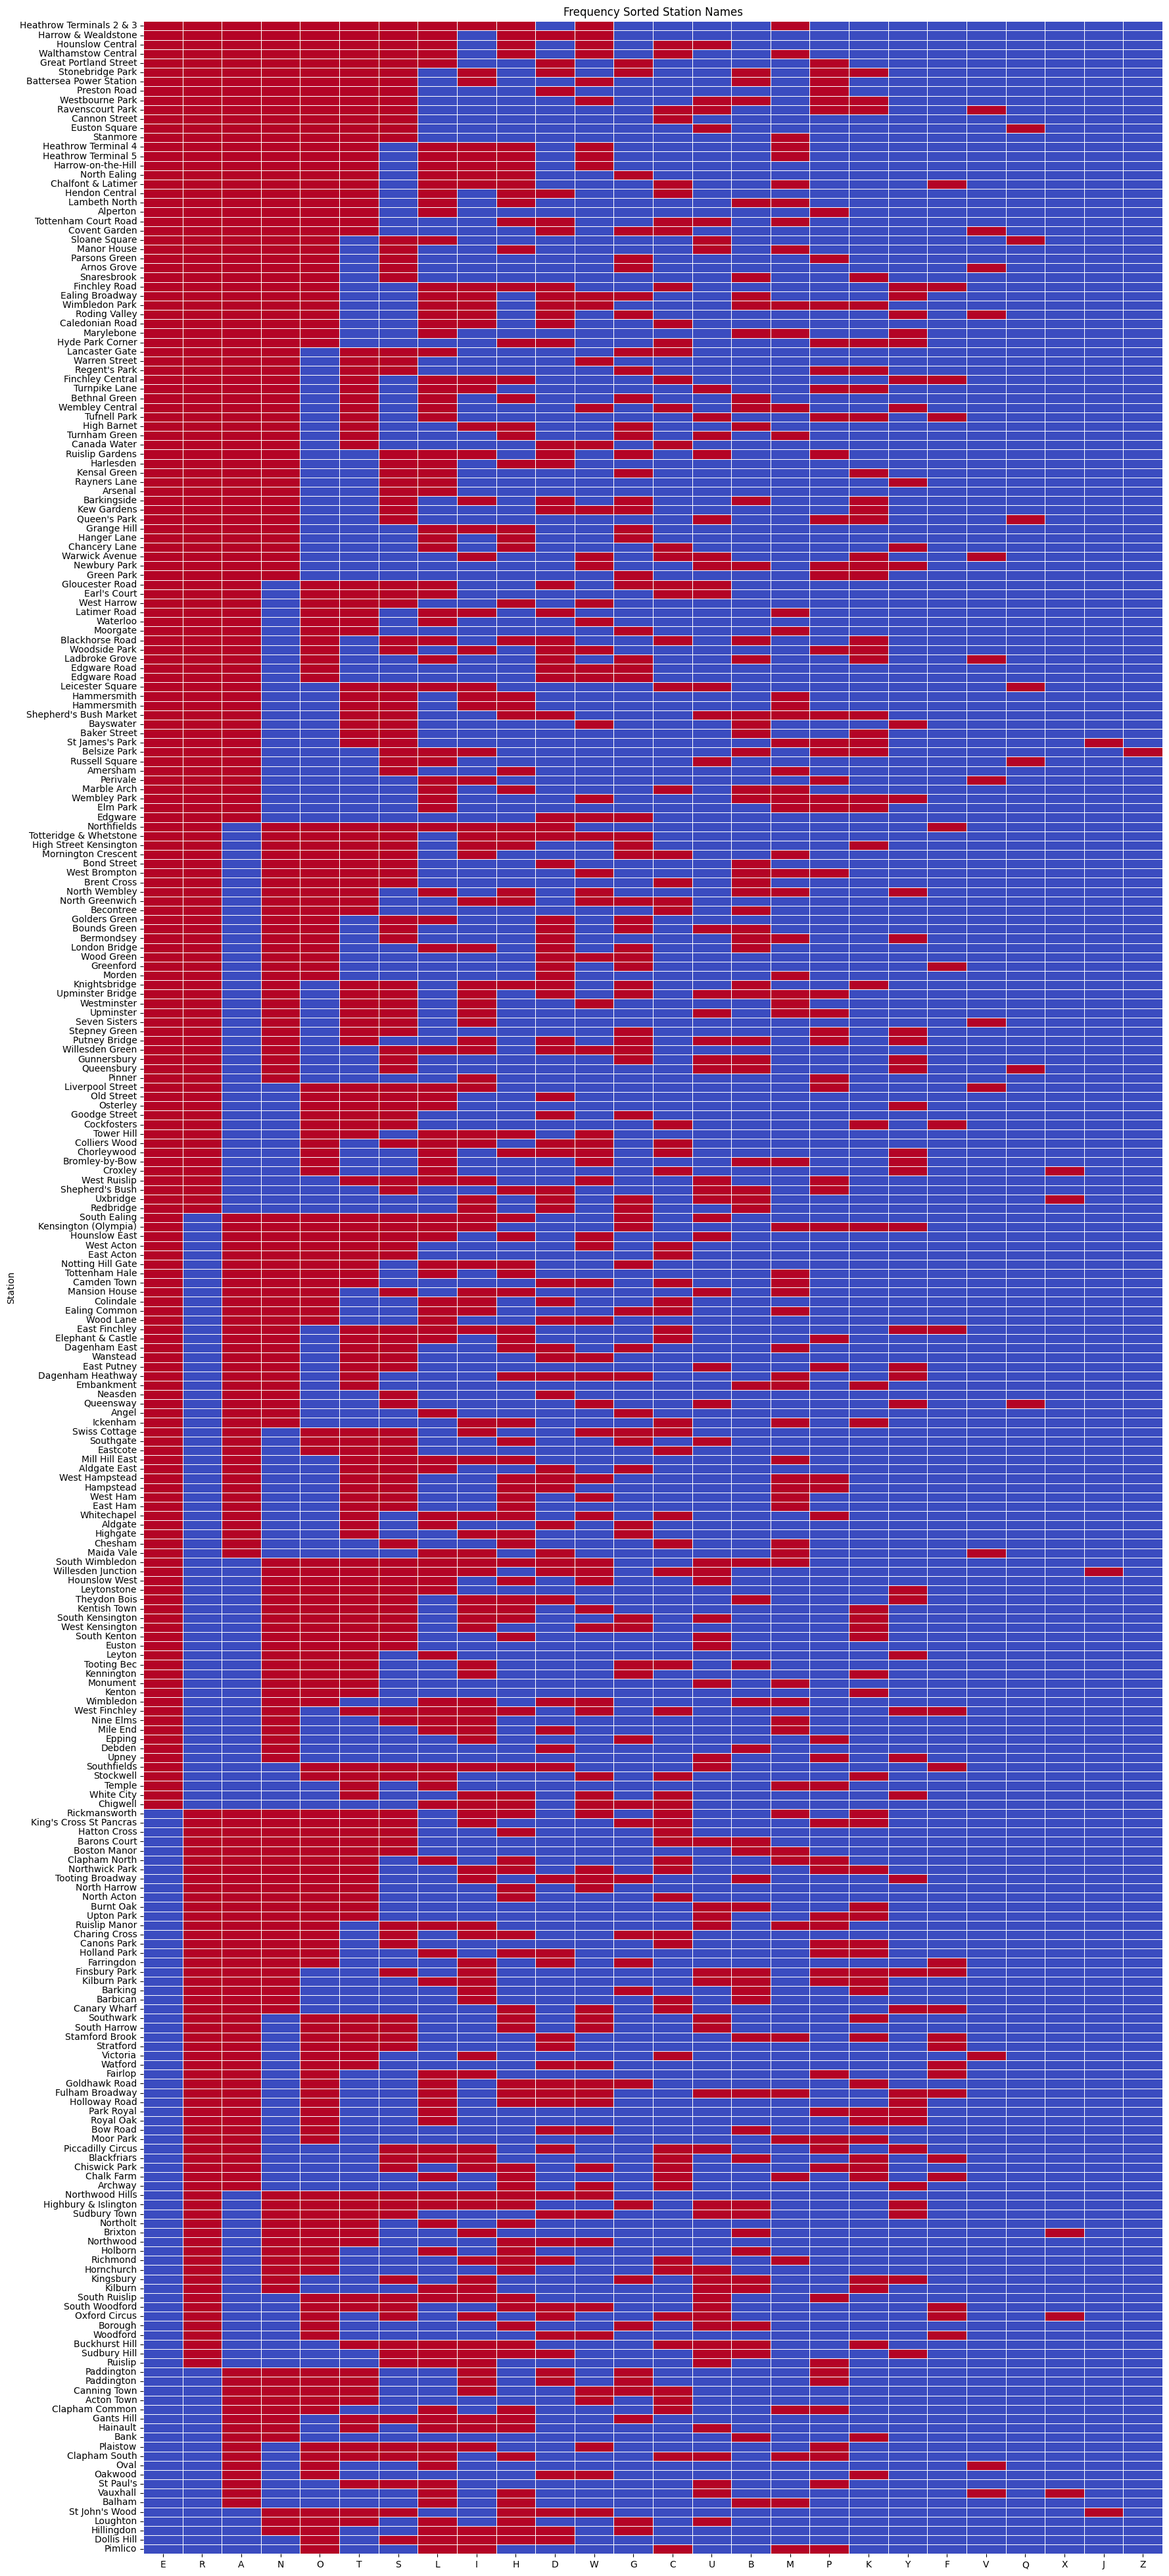
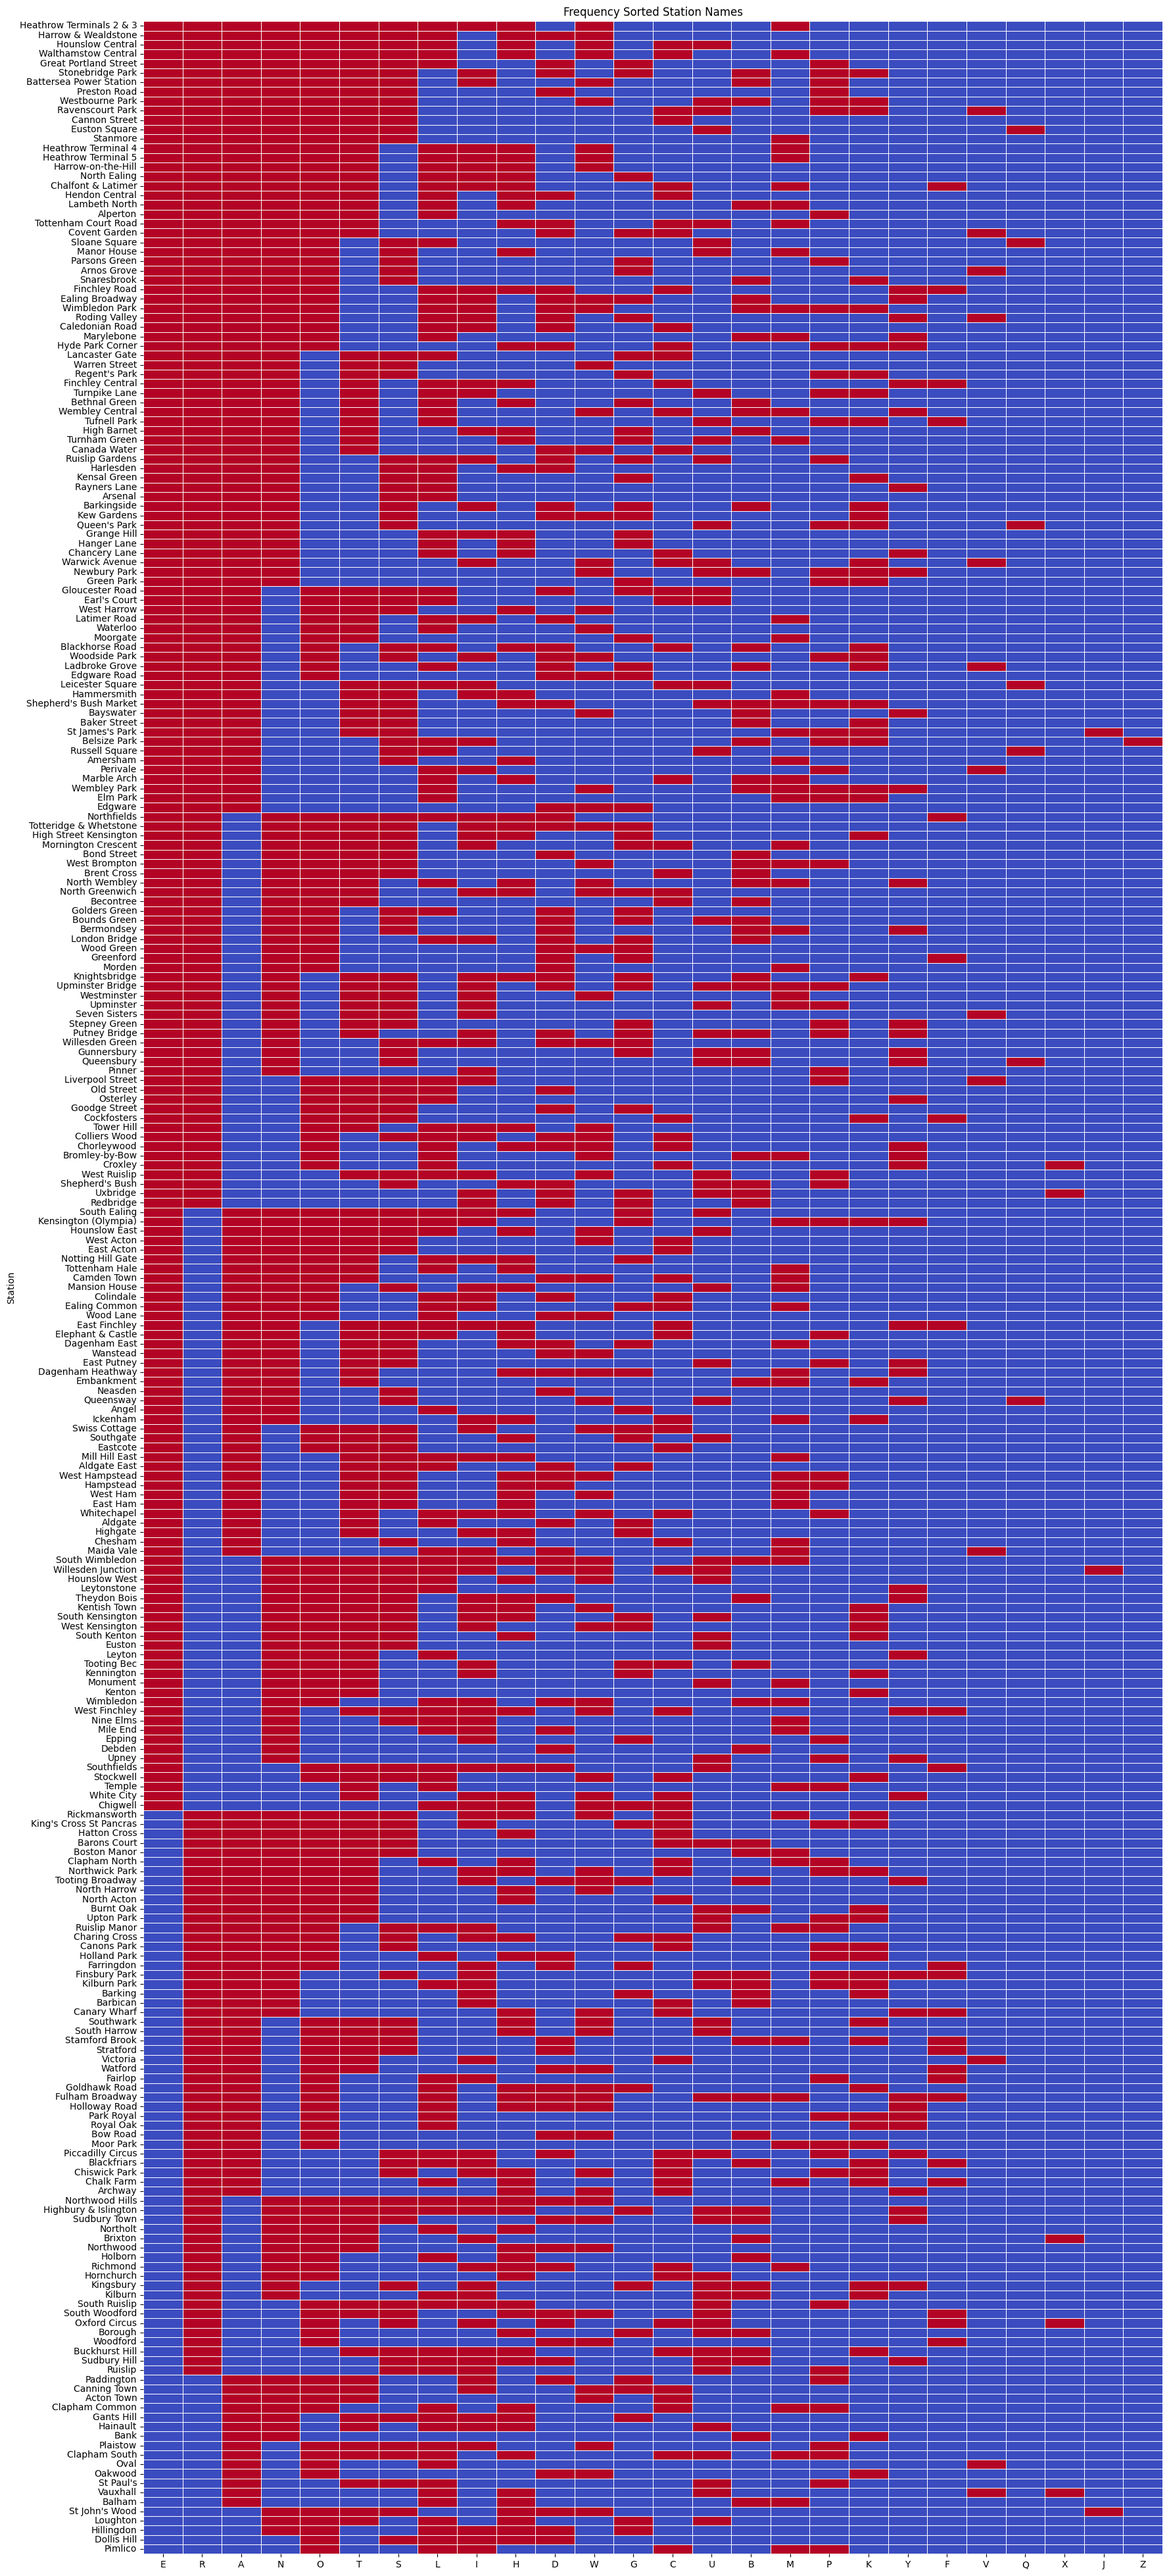
updated order of reversed heatmap

Changed region(s): [[0.0309, 0.0312, 1.0, 0.6542], [0.0619, 0.6854, 0.9899, 0.9658]]

diff --git a/generate_heatmaps.py b/generate_heatmaps.py
@@ -30,73 +30,6 @@ def generate_heatmap(matrix, title, output_path):
     plt.savefig(output_path, bbox_inches='tight')
     plt.close()
 
-def find_unique_filter_for_station(args):
-    idx, name, binary, station_binaries, sorted_letters = args
-    letter_set = set(string.ascii_uppercase)
-    
-    all_other_binaries = station_binaries[:idx] + station_binaries[idx + 1:]
-    required_letters = letter_set - set(name.upper())
-    
-    # List to store all filters
-    filters = []
-
-    # Try to find the shortest filter
-    for length in range(1, len(required_letters) + 1):
-        for combination in itertools.combinations(sorted_letters, length):
-            if set(combination).issubset(required_letters):
-                if all(any(other & (1 << (ord(letter) - ord('A'))) for letter in combination) for other in all_other_binaries):
-                    filters.append(''.join(sorted(combination)))
-        
-        if filters:
-            break
-
-    return (name, filters)
-
-def find_unique_filters(station_names, station_binaries, save_interval=10):
-    letter_set = set(string.ascii_uppercase)
-    
-    # Count the frequency of each letter
-    letter_frequency = {letter: 0 for letter in string.ascii_uppercase}
-    for binary in station_binaries:
-        for letter in string.ascii_uppercase:
-            if binary & (1 << (ord(letter) - ord('A'))):
-                letter_frequency[letter] += 1
-
-    # Sort letters by frequency from most to least frequent
-    sorted_letters = sorted(letter_frequency, key=letter_frequency.get, reverse=True)
-
-    station_filters = {}
-    intermediate_save_count = 0  # Counter to track when to save incrementally
-
-    # Create argument list for parallel processing
-    args_list = [(idx, name, binary, station_binaries, sorted_letters) for idx, (name, binary) in enumerate(zip(station_names, station_binaries))]
-
-    # Use ThreadPoolExecutor for parallel processing
-    with ThreadPoolExecutor() as executor:
-        future_to_station = {executor.submit(find_unique_filter_for_station, args): args for args in args_list}
-
-        for future in as_completed(future_to_station):
-            name, filters = future.result()
-            station_filters[name] = filters
-            intermediate_save_count += 1
-
-            # Incremental saving
-            if intermediate_save_count % save_interval == 0:
-                with open('unique_filters_intermediate.json', 'w') as json_file:
-                    json.dump(station_filters, json_file, indent=4)
-
-    # Final save
-    with open('unique_filters.json', 'w') as json_file:
-        json.dump(station_filters, json_file, indent=4)
-
-    return station_filters
-
-def query_station_names(letter_combination, station_names):
-    letter_set = set(letter_combination.upper())
-    matched_stations = [name for name in station_names if letter_set.issubset(set(name.upper()))]
-
-    return matched_stations
-
 def main():
     file_path = 'LND_UG.csv'
     stations_df = load_data(file_path)
@@ -122,19 +55,10 @@ def main():
 
     # Reverse frequency sorted heatmap (rarest letters at the top)
     reverse_sorted_letters = sorted(letter_frequency, key=letter_frequency.get)
-    reverse_sorted_boolean_matrix = boolean_matrix[reverse_sorted_letters].sort_values(by=reverse_sorted_letters, ascending=True)
+    reverse_sorted_boolean_matrix = boolean_matrix[reverse_sorted_letters].sort_values(by=reverse_sorted_letters, ascending=True).iloc[::-1]
     generate_heatmap(reverse_sorted_boolean_matrix, 'Reverse Frequency Sorted Station Names', 
                      'london_underground_station_heatmap_reverse_frequency.png')
 
-    # Find unique filters for each station and save them in an array to a JSON file
-    unique_filters = find_unique_filters(station_names, station_binaries)
-
-    with open('unique_filters.json', 'w') as json_file:
-        json.dump(unique_filters, json_file, indent=4)
-
-    # Example query station names based on letter combination
-    queried_stations = query_station_names('AEIOU', station_names)
-    print("Stations containing 'AEIOU':", queried_stations)
 
 if __name__ == '__main__':
     main()
